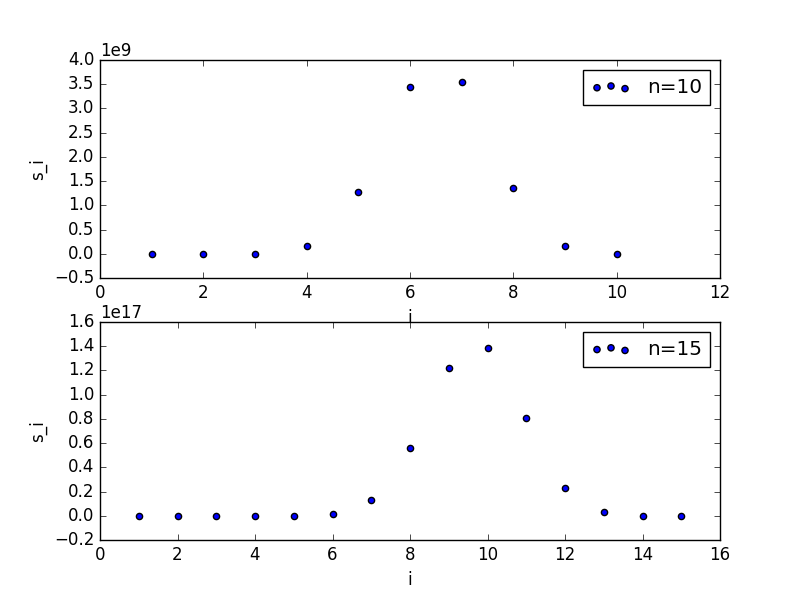
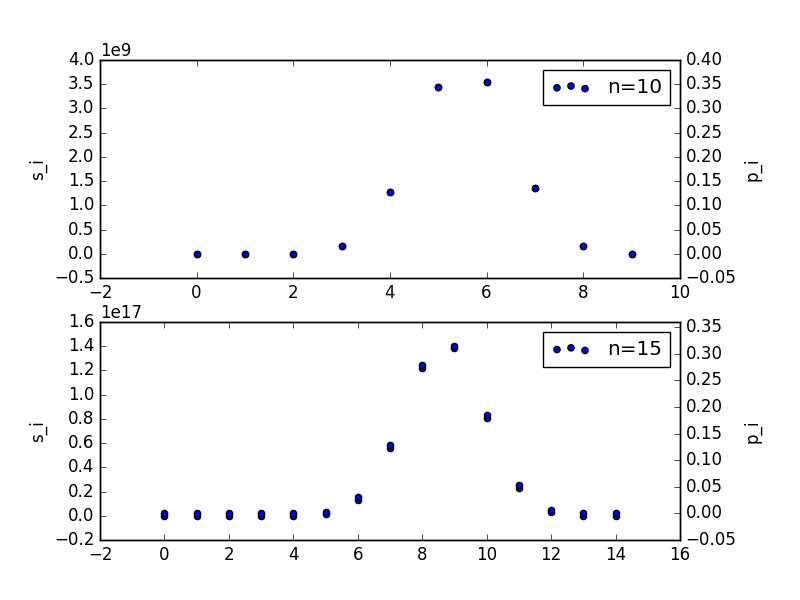
small change

diff --git a/_posts/2017-03-25-rnn-addition.md b/_posts/2017-03-25-rnn-addition.md
@@ -61,28 +61,26 @@ In order to train RNN successfully, we need to unify their shapes, in other word
 same shape, and the same is true for output matrices.
 
 To do this, we transform the inputs/outputs to strings with length **7**/**4** by padding **#** at the end. 
-Namely, **12+237** will be transformed to **12+237#**, and **249** to **249#**. Thus, the above two matrices will be:
+Namely, **12+237** will be transformed to **012+237**, and **249** to **0249**. Thus, the above two matrices will be:
 
-**12+237#** with shape=**[7, 12]**
+**012+237** with shape=**[7, 12]**
 ```
-1, [0, 1, 0, 0, 0, 0, 0, 0, 0, 0, 0, 0]
-2, [0, 0, 1, 0, 0, 0, 0, 0, 0, 0, 0, 0]
-+, [0, 0, 0, 0, 0, 0, 0, 0, 0, 0, 1, 0]
-2, [0, 0, 1, 0, 0, 0, 0, 0, 0, 0, 0, 0]
-3, [0, 0, 0, 1, 0, 0, 0, 0, 0, 0, 0, 0]
-7, [0, 0, 0, 0, 0, 0, 0, 1, 0, 0, 0, 0]
-#, [0, 0, 0, 0, 0, 0, 0, 0, 0, 0, 0, 1]
+0, [1, 0, 0, 0, 0, 0, 0, 0, 0, 0, 0]
+1, [0, 1, 0, 0, 0, 0, 0, 0, 0, 0, 0]
+2, [0, 0, 1, 0, 0, 0, 0, 0, 0, 0, 0]
++, [0, 0, 0, 0, 0, 0, 0, 0, 0, 0, 1]
+2, [0, 0, 1, 0, 0, 0, 0, 0, 0, 0, 0]
+3, [0, 0, 0, 1, 0, 0, 0, 0, 0, 0, 0]
+7, [0, 0, 0, 0, 0, 0, 0, 1, 0, 0, 0]
 ```
-**249#** with shape=**[4, 12]**
+**0249** with shape=**[4, 12]**
 ```
-2, [0, 0, 1, 0, 0, 0, 0, 0, 0, 0, 0, 0]
-4, [0, 0, 0, 0, 1, 0, 0, 0, 0, 0, 0, 0]
-9, [0, 0, 0, 0, 0, 0, 0, 0, 0, 1, 0, 0]
-#, [0, 0, 0, 0, 0, 0, 0, 0, 0, 0, 0, 1]
+0, [0, 0, 0, 0, 0, 0, 0, 0, 0, 0, 0]
+2, [0, 0, 1, 0, 0, 0, 0, 0, 0, 0, 0]
+4, [0, 0, 0, 0, 1, 0, 0, 0, 0, 0, 0]
+9, [0, 0, 0, 0, 0, 0, 0, 0, 0, 1, 0]
 ```
 
-Noting that, symbol **#** was encoded as `#, [0, 0, 0, 0, 0, 0, 0, 0, 0, 0, 0, 1]`, and the vector length of the 
-other 11 symbols changed from **11** to **12**.
 
 ## RNN model
 
@@ -121,3 +119,7 @@ two lstm layers so that the four output vectors **o_1, o_2, o_3, o_4** always gi
 ![](http://on1loo82k.bkt.clouddn.com/addition_7.svg)
 
 
+## code
+As we restrict our model to 3 digits number addition, thus the dataset will be of size 1000 * 1000, i.e each sample has 
+**input=a+b**, and **output=c** 
+where $$a, b\in [000, 999]$$, $$c\in [0000, 1998]$$

diff --git a/_posts/2016-12-30-boxes-balls.md b/_posts/2016-12-30-boxes-balls.md
@@ -52,7 +52,8 @@ if $$i=3$$, $$s_3 = C_n^3 * \alpha_3 = C_n^3(3^n-C_3^2\alpha_2-C_3^1\alpha_1)$$
 
 if $$i=i$$, $$s_i = C_n^i * \alpha_i = C_n^i (i^n -\sum_{j=1}^{j=i-1}C_i^j\alpha_j)$$
 
-In the following, we show the scatter plots of $$s_i$$ in cases $$n=10$$ and $$n=15$$, as well as the code of computing $$C_n^i$$ and $$\alpha_i$$.
+In the following, we show the scatter plots of $$s_i$$ and $$p_i$$ in cases $$n=10$$ and $$n=15$$, the code of computing $$C_n^i$$ and $$\alpha_i$$ can be found in
+ [github](https://github.com/huizhuzhao/Snow/blob/master/examples/random_sampling.py).
 
 It worth noting that 
 
@@ -62,47 +63,3 @@ $$ \sum_{i=1}^n s_i = n^n$$
 
 
 
-{%highlight python%}
-def memo(func):
-    """
-    memoization for recursive func
-    """
-    cache = {}
-    ii = []
-    @wraps(func)
-    def wrap(*args):
-        if args not in cache:
-            cache[args] = func(*args)
-        ii.append(1)
-        return cache[args]
-    return wrap
-
-@memo
-def combination(n, i):
-    """
-    compute C(n, i) = n! / (i! * (n-i)!)
-    """
-    n, i = int(n), int(i)
-    x = np.math.factorial(n)
-    y1 = np.math.factorial(i)
-    y2 = np.math.factorial(n-i)
-
-    return x / (y1 * y2)
-
-@memo
-def alpha_i(n, i):
-    """
-    compute \alpha_i
-    """
-    if i == 1:
-        alp = 1
-    elif i>1:
-        s = np.power(i, n)
-        m = 0
-        for k in range(1, i):
-            m += combination(i, k) * alpha_i(n, k)
-        alp = s - m
-    else:
-        raise ValueError('Invalid value {0} received.'.format(i))
-    return alp
-{% endhighlight%}
